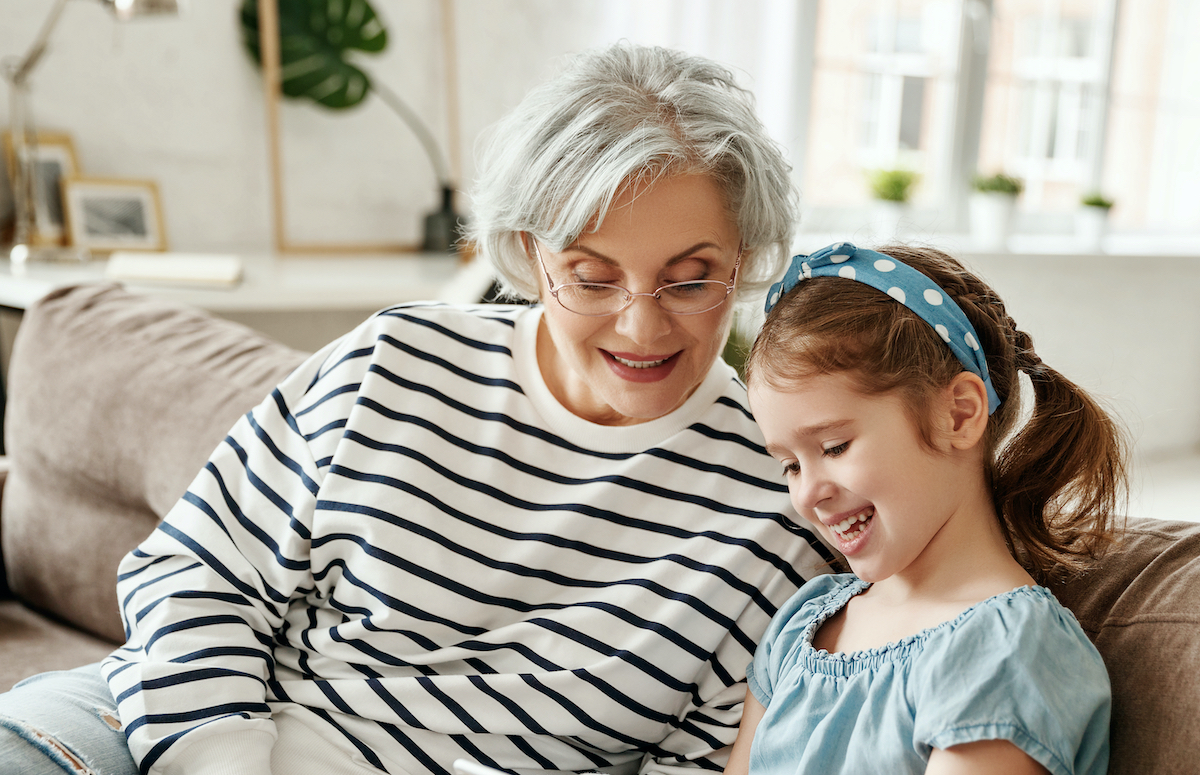
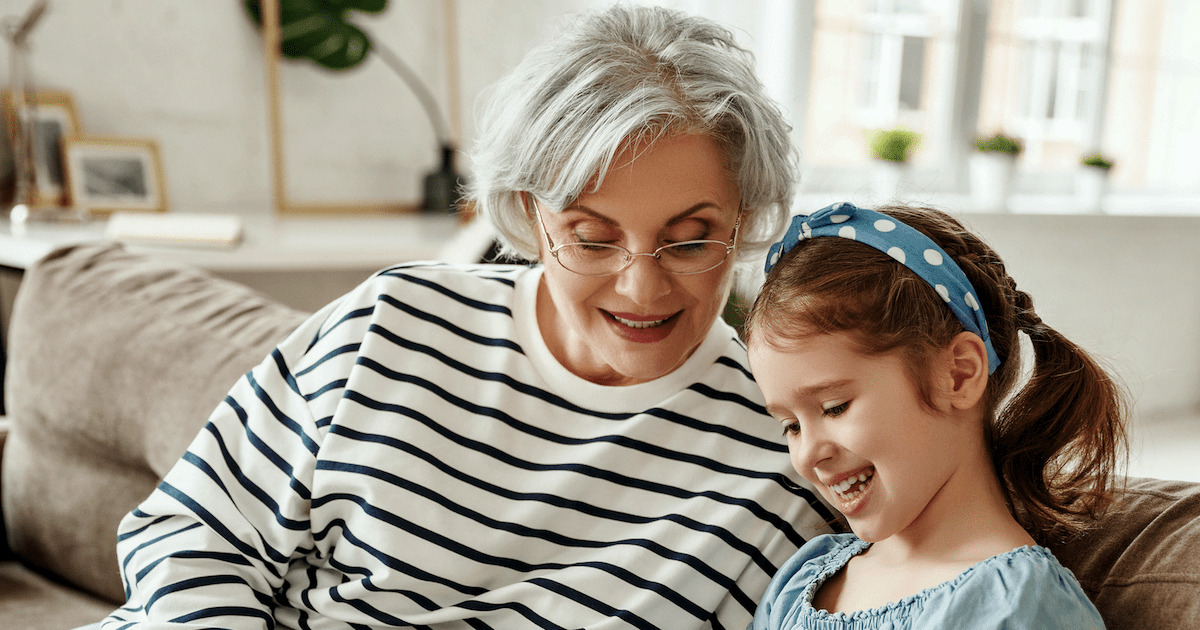
chenged cover.png correct size and weight

diff --git a/db/schema.rb b/db/schema.rb
@@ -76,13 +76,12 @@ ActiveRecord::Schema.define(version: 2020_07_02_051638) do
   end
 
   create_table "messages", force: :cascade do |t|
-    t.bigint "user_id", null: false
     t.datetime "created_at", precision: 6, null: false
     t.datetime "updated_at", precision: 6, null: false
+    t.integer "user_id"
     t.bigint "booking_id", null: false
     t.string "content"
     t.index ["booking_id"], name: "index_messages_on_booking_id"
-    t.index ["user_id"], name: "index_messages_on_user_id"
   end
 
   create_table "offers", force: :cascade do |t|
@@ -118,7 +117,7 @@ ActiveRecord::Schema.define(version: 2020_07_02_051638) do
     t.datetime "remember_created_at"
     t.datetime "created_at", precision: 6, null: false
     t.datetime "updated_at", precision: 6, null: false
-    t.boolean "admin", default: false
+    t.boolean "admin"
     t.string "first_name"
     t.string "last_name"
     t.string "photo"
@@ -136,7 +135,6 @@ ActiveRecord::Schema.define(version: 2020_07_02_051638) do
   add_foreign_key "checkouts", "offers"
   add_foreign_key "checkouts", "users"
   add_foreign_key "messages", "bookings"
-  add_foreign_key "messages", "users"
   add_foreign_key "offers", "categories"
   add_foreign_key "offers", "categories", column: "subcategory_id"
   add_foreign_key "offers", "users"
